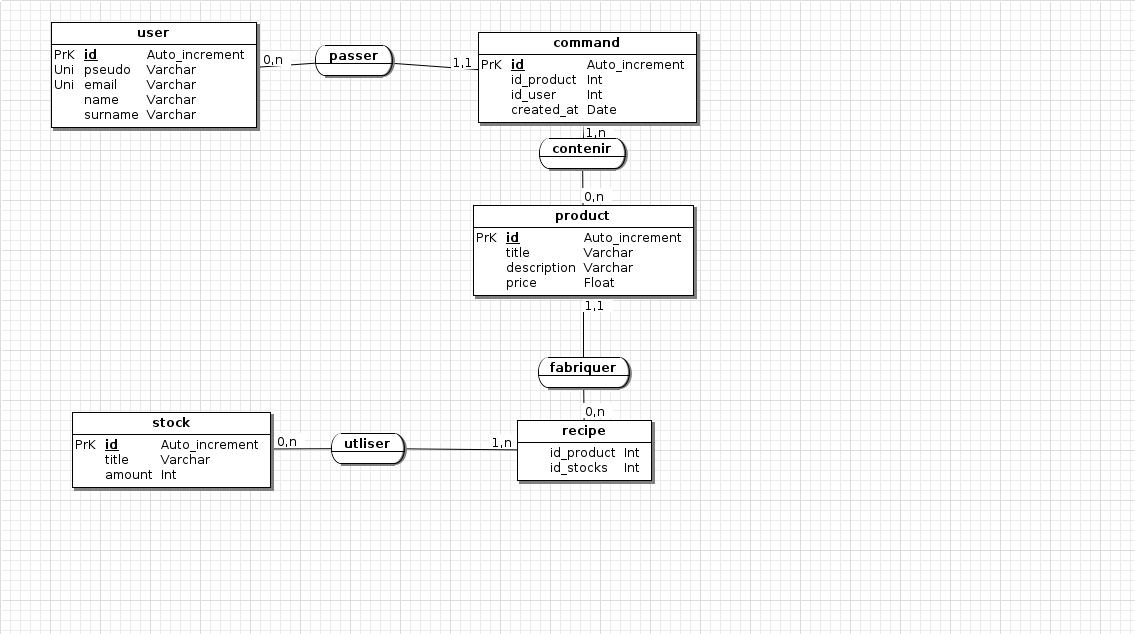
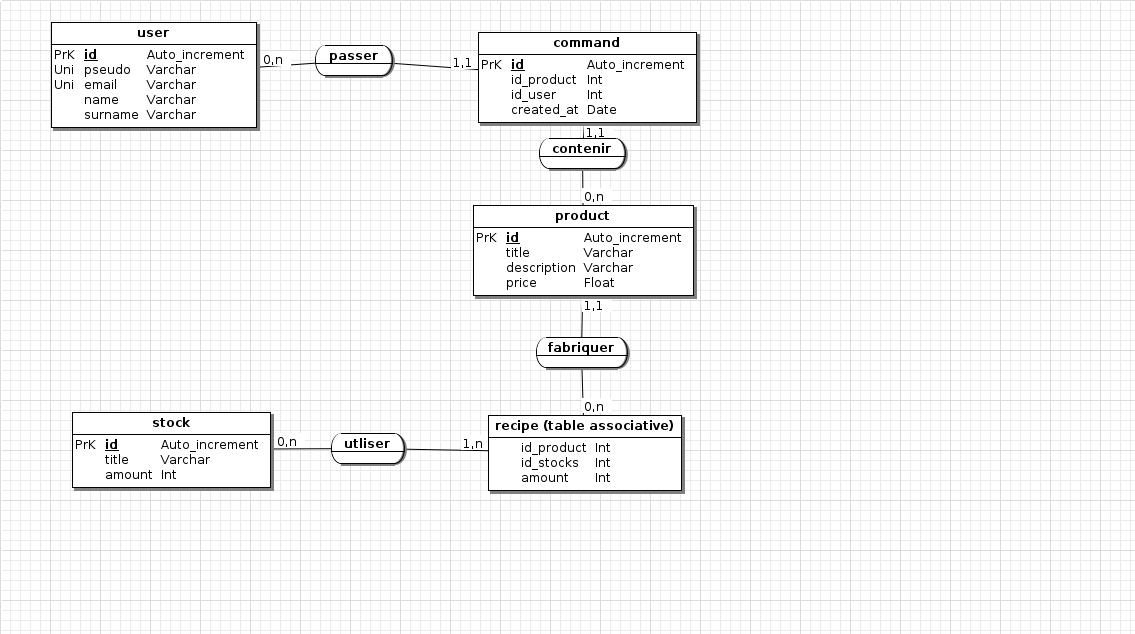
ajout - suppression ingredient panier

Changed region(s): [[0.37, 0.5095, 0.6167, 0.7792]]

diff --git a/src/AppBundle/Controller/CartController.php b/src/AppBundle/Controller/CartController.php
@@ -6,6 +6,9 @@ use Symfony\Bundle\FrameworkBundle\Controller\Controller;
 use Symfony\Component\HttpFoundation\Request;
 use Symfony\Component\HttpFoundation\Session\SessionInterface;
 use AppBundle\Entity\Product;
+use AppBundle\Entity\Recipe;
+use AppBundle\Entity\Stock;
+
 
 /**
  * @Route("/cart")
@@ -25,6 +28,22 @@ class CartController extends Controller
             array_push($cart, $ajout);
             $session->set('cart', $cart);
         }
+        //suppression des ingredients
+        $list_recipe = $this->getDoctrine()->getRepository("AppBundle:Recipe")->findByProduct($ajout);
+        $list_stock = $this->getDoctrine()->getRepository("AppBundle:Stock")->findAll();
+        $em = $this->getDoctrine()->getManager();
+        foreach ($list_recipe as $value1) {
+            foreach ($list_stock as $key => $value2) {
+                if ($value1->getStock() == $value2) {
+                    $list_stock[$key]->setAmount($list_stock[$key]->getAmount() - $value1->getAmount());
+                    $em->persist($list_stock[$key]);
+                }
+            }
+        }
+        $em->flush();
+
+
+
         return $this->redirectToRoute("cart.show");
     }
     /**
@@ -33,8 +52,25 @@ class CartController extends Controller
     public function deleteAction(SessionInterface $session, Request $request, $id)
     {
         $cart = $session->get('cart');
+
+        //rajout des ingredients
+        $em = $this->getDoctrine()->getManager();        
+        $product = $cart[$id];        
+        $list_recipe = $this->getDoctrine()->getRepository("AppBundle:Recipe")->findByProduct($product);
+        $list_stock = $this->getDoctrine()->getRepository("AppBundle:Stock")->findAll();
+
+        foreach ($list_recipe as $value1) {
+            foreach ($list_stock as $key => $value2) {
+                if ($value1->getStock() == $value2) {
+                    $list_stock[$key]->setAmount($list_stock[$key]->getAmount() + $value1->getAmount());
+                    $em->persist($list_stock[$key]);
+                }
+            }
+        }
+        $em->flush();        
         unset($cart[$id]);
         $session->set('cart', $cart);
+
         return $this->redirectToRoute("cart.show");        
     }
     /**

diff --git a/src/AppBundle/Controller/CommandController.php b/src/AppBundle/Controller/CommandController.php
@@ -37,17 +37,17 @@ class CommandController extends Controller
                 $em->merge($command);
 
                 //decompte des ingredients
-                $list_recipe = $this->getDoctrine()->getRepository("AppBundle:Recipe")->findByProduct($value);
-                $list_stock = $this->getDoctrine()->getRepository("AppBundle:Stock")->findAll();
+                // $list_recipe = $this->getDoctrine()->getRepository("AppBundle:Recipe")->findByProduct($value);
+                // $list_stock = $this->getDoctrine()->getRepository("AppBundle:Stock")->findAll();
 
-                    foreach ($list_recipe as $value1) {
-                        foreach ($list_stock as $key => $value2) {
-                            if ($value1->getStock() == $value2) {
-                                $list_stock[$key]->setAmount($list_stock[$key]->getAmount() - $value1->getAmount()); 
-                                $em->persist($list_stock[$key]);
-                            }
-                        }
-                    }
+                //     foreach ($list_recipe as $value1) {
+                //         foreach ($list_stock as $key => $value2) {
+                //             if ($value1->getStock() == $value2) {
+                //                 $list_stock[$key]->setAmount($list_stock[$key]->getAmount() - $value1->getAmount()); 
+                //                 $em->persist($list_stock[$key]);
+                //             }
+                //         }
+                //     }
 
                 $em->flush();
                 $this->addFlash(

diff --git a/src/AppBundle/Form/ProductType.php b/src/AppBundle/Form/ProductType.php
@@ -5,6 +5,7 @@ namespace AppBundle\Form;
 use Symfony\Component\Form\AbstractType;
 use Symfony\Component\Form\FormBuilderInterface;
 use Symfony\Component\OptionsResolver\OptionsResolver;
+use Symfony\Component\Form\Extension\Core\Type\MoneyType;
 
 class ProductType extends AbstractType
 {
@@ -13,7 +14,9 @@ class ProductType extends AbstractType
      */
     public function buildForm(FormBuilderInterface $builder, array $options)
     {
-        $builder->add('title')->add('description')->add('price');
+        $builder->add('title')
+        ->add('description')
+        ->add('price', MoneyType::class);
     }
     
     /**
